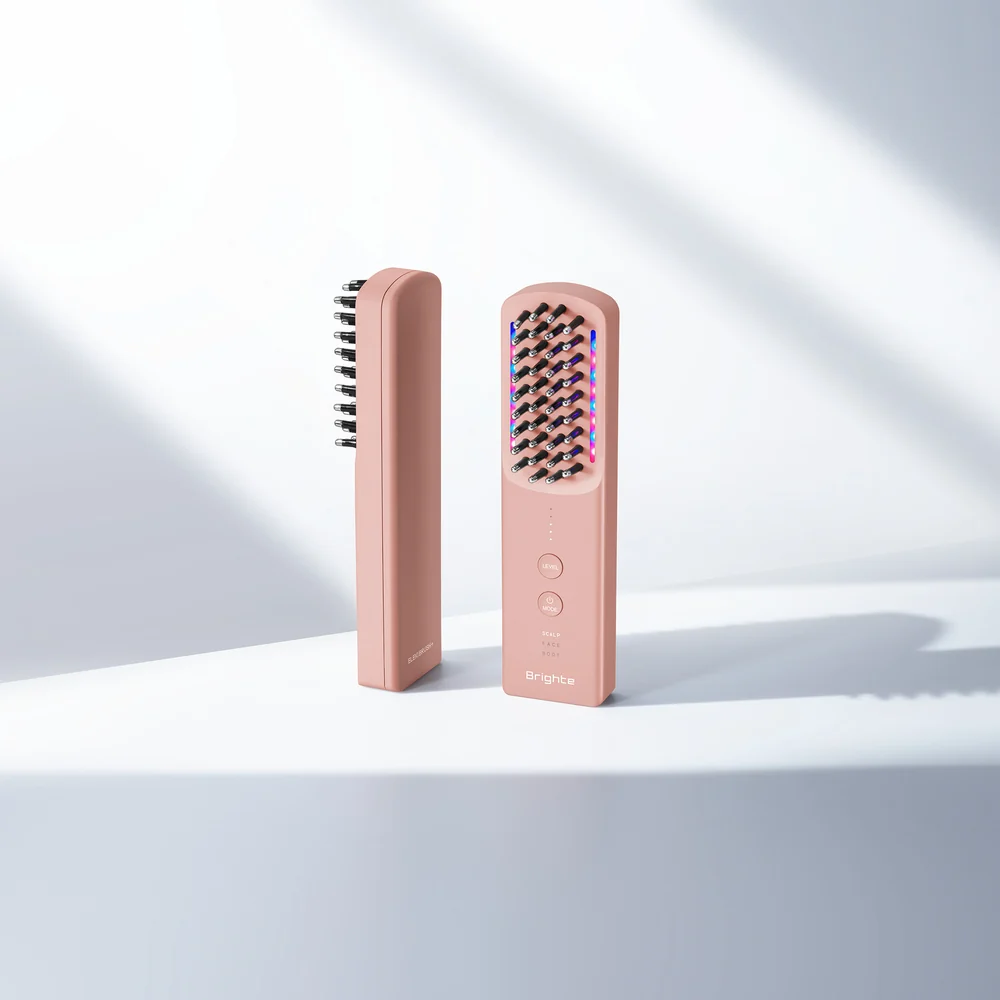
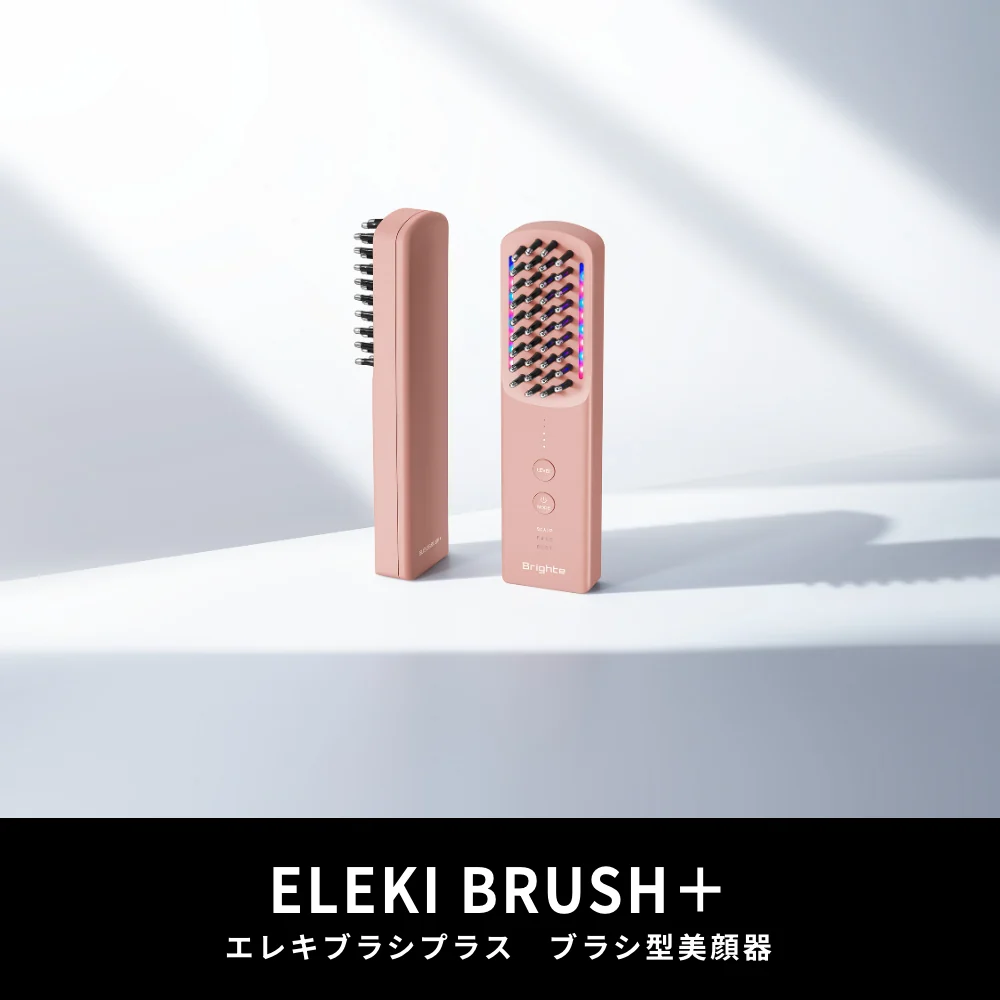
新しい商品写真の下に黒帯＋商品名を入れる（元の画像と同じ形）

diff --git a/index.html b/index.html
@@ -479,9 +479,9 @@ footer .law{font-size:14px}
   <div class="gift-ph"><img src="images/candle.webp?v=2" alt="Brighteオリジナルキャンドル(月と猫のネイビーのグラス)" width="560" height="780" loading="lazy"></div>
   <p class="gift-for">対象商品</p>
   <ul class="gift-items">
-    <li><a href="https://item.rakuten.co.jp/brighte-onlineshop/brt-fs145/"><img src="images/brush-pink.webp" alt="ELEKI BRUSH＋" width="1000" height="1000" loading="lazy"></a></li>
-    <li><a href="https://item.rakuten.co.jp/brighte-onlineshop/brt-fl170/"><img src="images/lift-blue.webp" alt="ELEKI LIFT" width="1000" height="1000" loading="lazy"></a></li>
-    <li><a href="https://item.rakuten.co.jp/brighte-onlineshop/brt-sd173/"><img src="images/dryer-white.webp" alt="SHOWER DRYER" width="1000" height="1000" loading="lazy"></a></li>
+    <li><a href="https://item.rakuten.co.jp/brighte-onlineshop/brt-fs145/"><img src="images/brush-pink.webp?v=band" alt="ELEKI BRUSH＋" width="1000" height="1000" loading="lazy"></a></li>
+    <li><a href="https://item.rakuten.co.jp/brighte-onlineshop/brt-fl170/"><img src="images/lift-blue.webp?v=band" alt="ELEKI LIFT" width="1000" height="1000" loading="lazy"></a></li>
+    <li><a href="https://item.rakuten.co.jp/brighte-onlineshop/brt-sd173/"><img src="images/dryer-white.webp?v=band" alt="SHOWER DRYER" width="1000" height="1000" loading="lazy"></a></li>
   </ul>
   <p class="gift-note">※先着2,500名様限定。なくなり次第終了となります。</p>
 </section>
@@ -536,16 +536,16 @@ footer .law{font-size:14px}
    cpText : ボタンの文言 */
 const ITEMS = [
   {id:"item1", cat:"リフト美顔器", name:"ELEKI LIFT", kana:"エレキリフト", tab:"ELEKI<br>LIFT",
-   img:"lift-blue.webp", banner:null, note:"",
+   img:"lift-blue.webp?v=band", banner:null, note:"",
    off:"38,054", cpText:"38,054円OFFクーポン獲得", coupon:"https://coupon.rakuten.co.jp/getCoupon?getkey=MjZPMC00TDlKLUhCMUotQVgyMw--&rt=&rd=https://item.rakuten.co.jp/brighte-onlineshop/brt-fl170/", url:"https://item.rakuten.co.jp/brighte-onlineshop/brt-fl170/"},
   {id:"item2", cat:"ブラシ型美顔器", name:"ELEKI BRUSH＋", title:"ELEKI <span class=\"nw\">BRUSH＋</span>", kana:"エレキブラシプラス", tab:"ELEKI<br>BRUSH＋",
-   img:"brush-pink.webp", banner:null, note:"",
+   img:"brush-pink.webp?v=band", banner:null, note:"",
    off:"8,634", cpText:"8,634円OFFクーポン獲得", coupon:"https://coupon.rakuten.co.jp/getCoupon?getkey=OUIyRi1CVVdFLUUyRVgtUUFTUw--&rt=&rd=https://item.rakuten.co.jp/brighte-onlineshop/brt-fs145/", url:"https://item.rakuten.co.jp/brighte-onlineshop/brt-fs145/"},
   {id:"item3", cat:"ドライヤー", name:"SHOWER DRYER", kana:"シャワードライヤー", tab:"SHOWER<br>DRYER",
-   img:"dryer-white.webp", banner:null, note:"",
+   img:"dryer-white.webp?v=band", banner:null, note:"",
    off:"7,718", cpText:"7,718円OFFクーポン獲得", coupon:"https://coupon.rakuten.co.jp/getCoupon?getkey=SkFCTC01QklDLVhNVlYtRVZPQQ--&rt=&rd=https://item.rakuten.co.jp/brighte-onlineshop/brt-sd173/", url:"https://item.rakuten.co.jp/brighte-onlineshop/brt-sd173/"},
   {id:"item4", cat:"ストレートアイロン", name:"3D SILK STRAIGHT IRON", long:true, kana:"3D シルクストレートアイロン", tab:"3D SILK<br>IRON",
-   img:"iron-white.webp", banner:null, note:"",
+   img:"iron-white.webp?v=band", banner:null, note:"",
    off:"3,819", cpText:"3,819円OFFクーポン獲得", coupon:"https://coupon.rakuten.co.jp/getCoupon?getkey=OVUySC1FT05aLVNSUE8tWlJUUw--&rt=&rd=https://item.rakuten.co.jp/brighte-onlineshop/brt-3d138/", url:"https://item.rakuten.co.jp/brighte-onlineshop/brt-3d138/"}
 ];
 /* ▲ 編集箇所 ─────────────────────────── */
